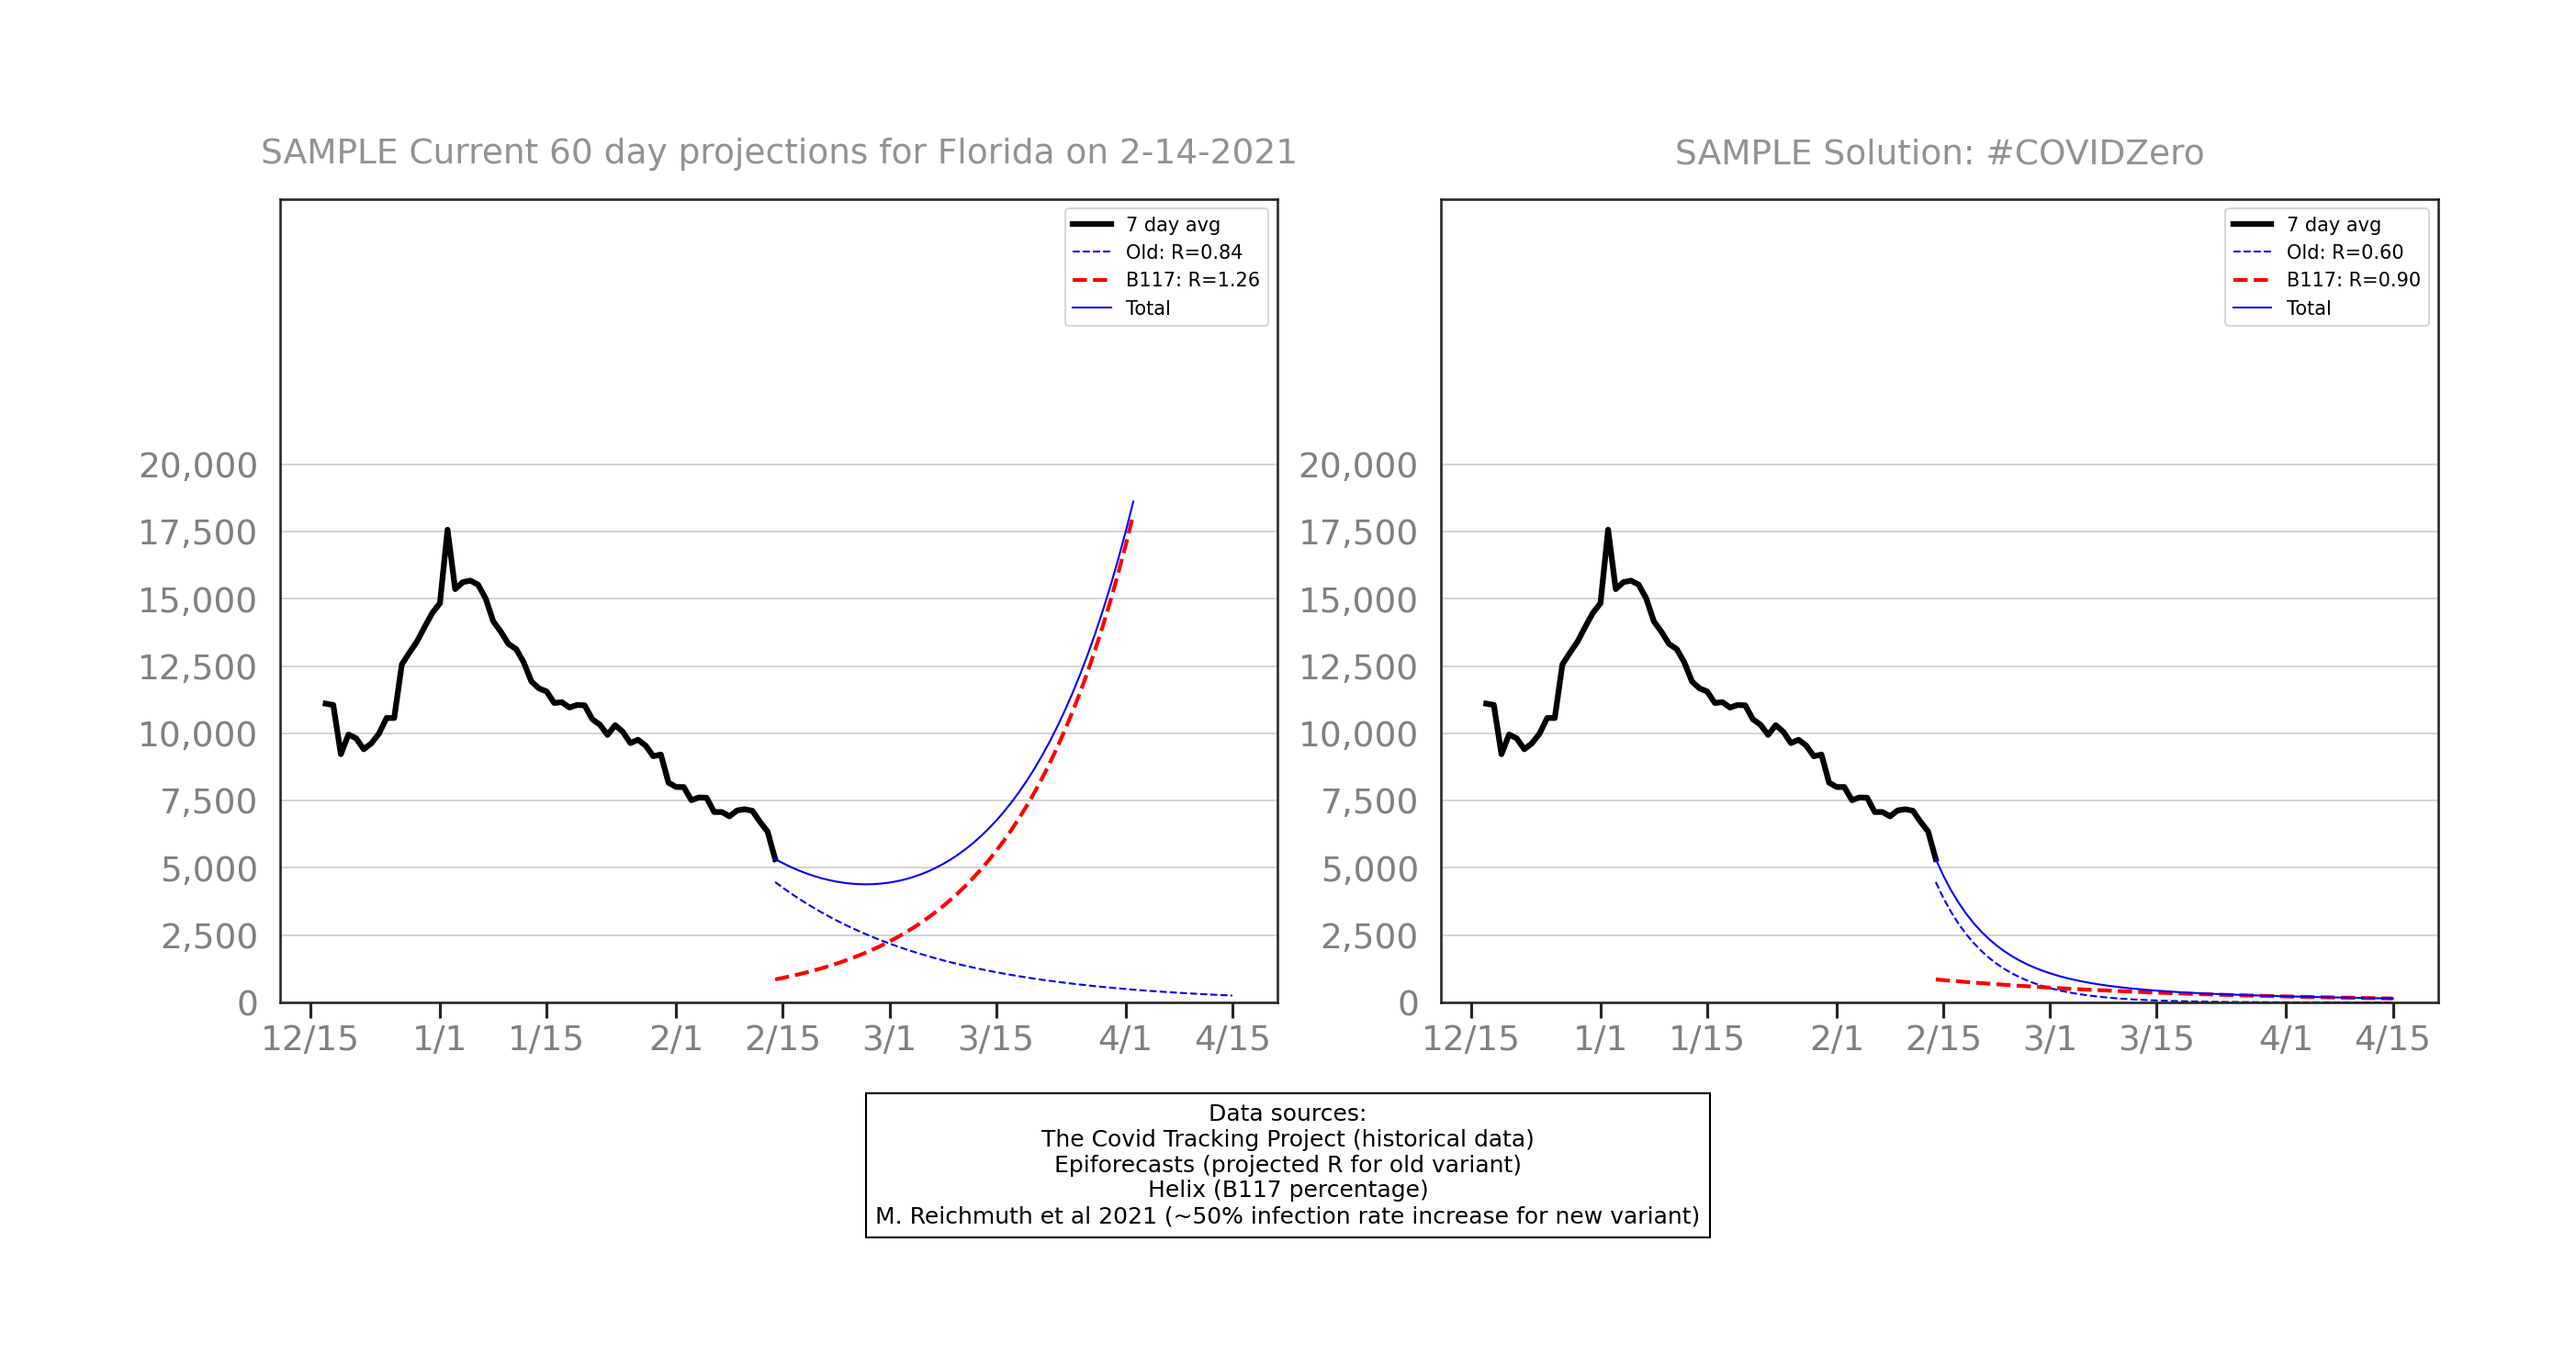
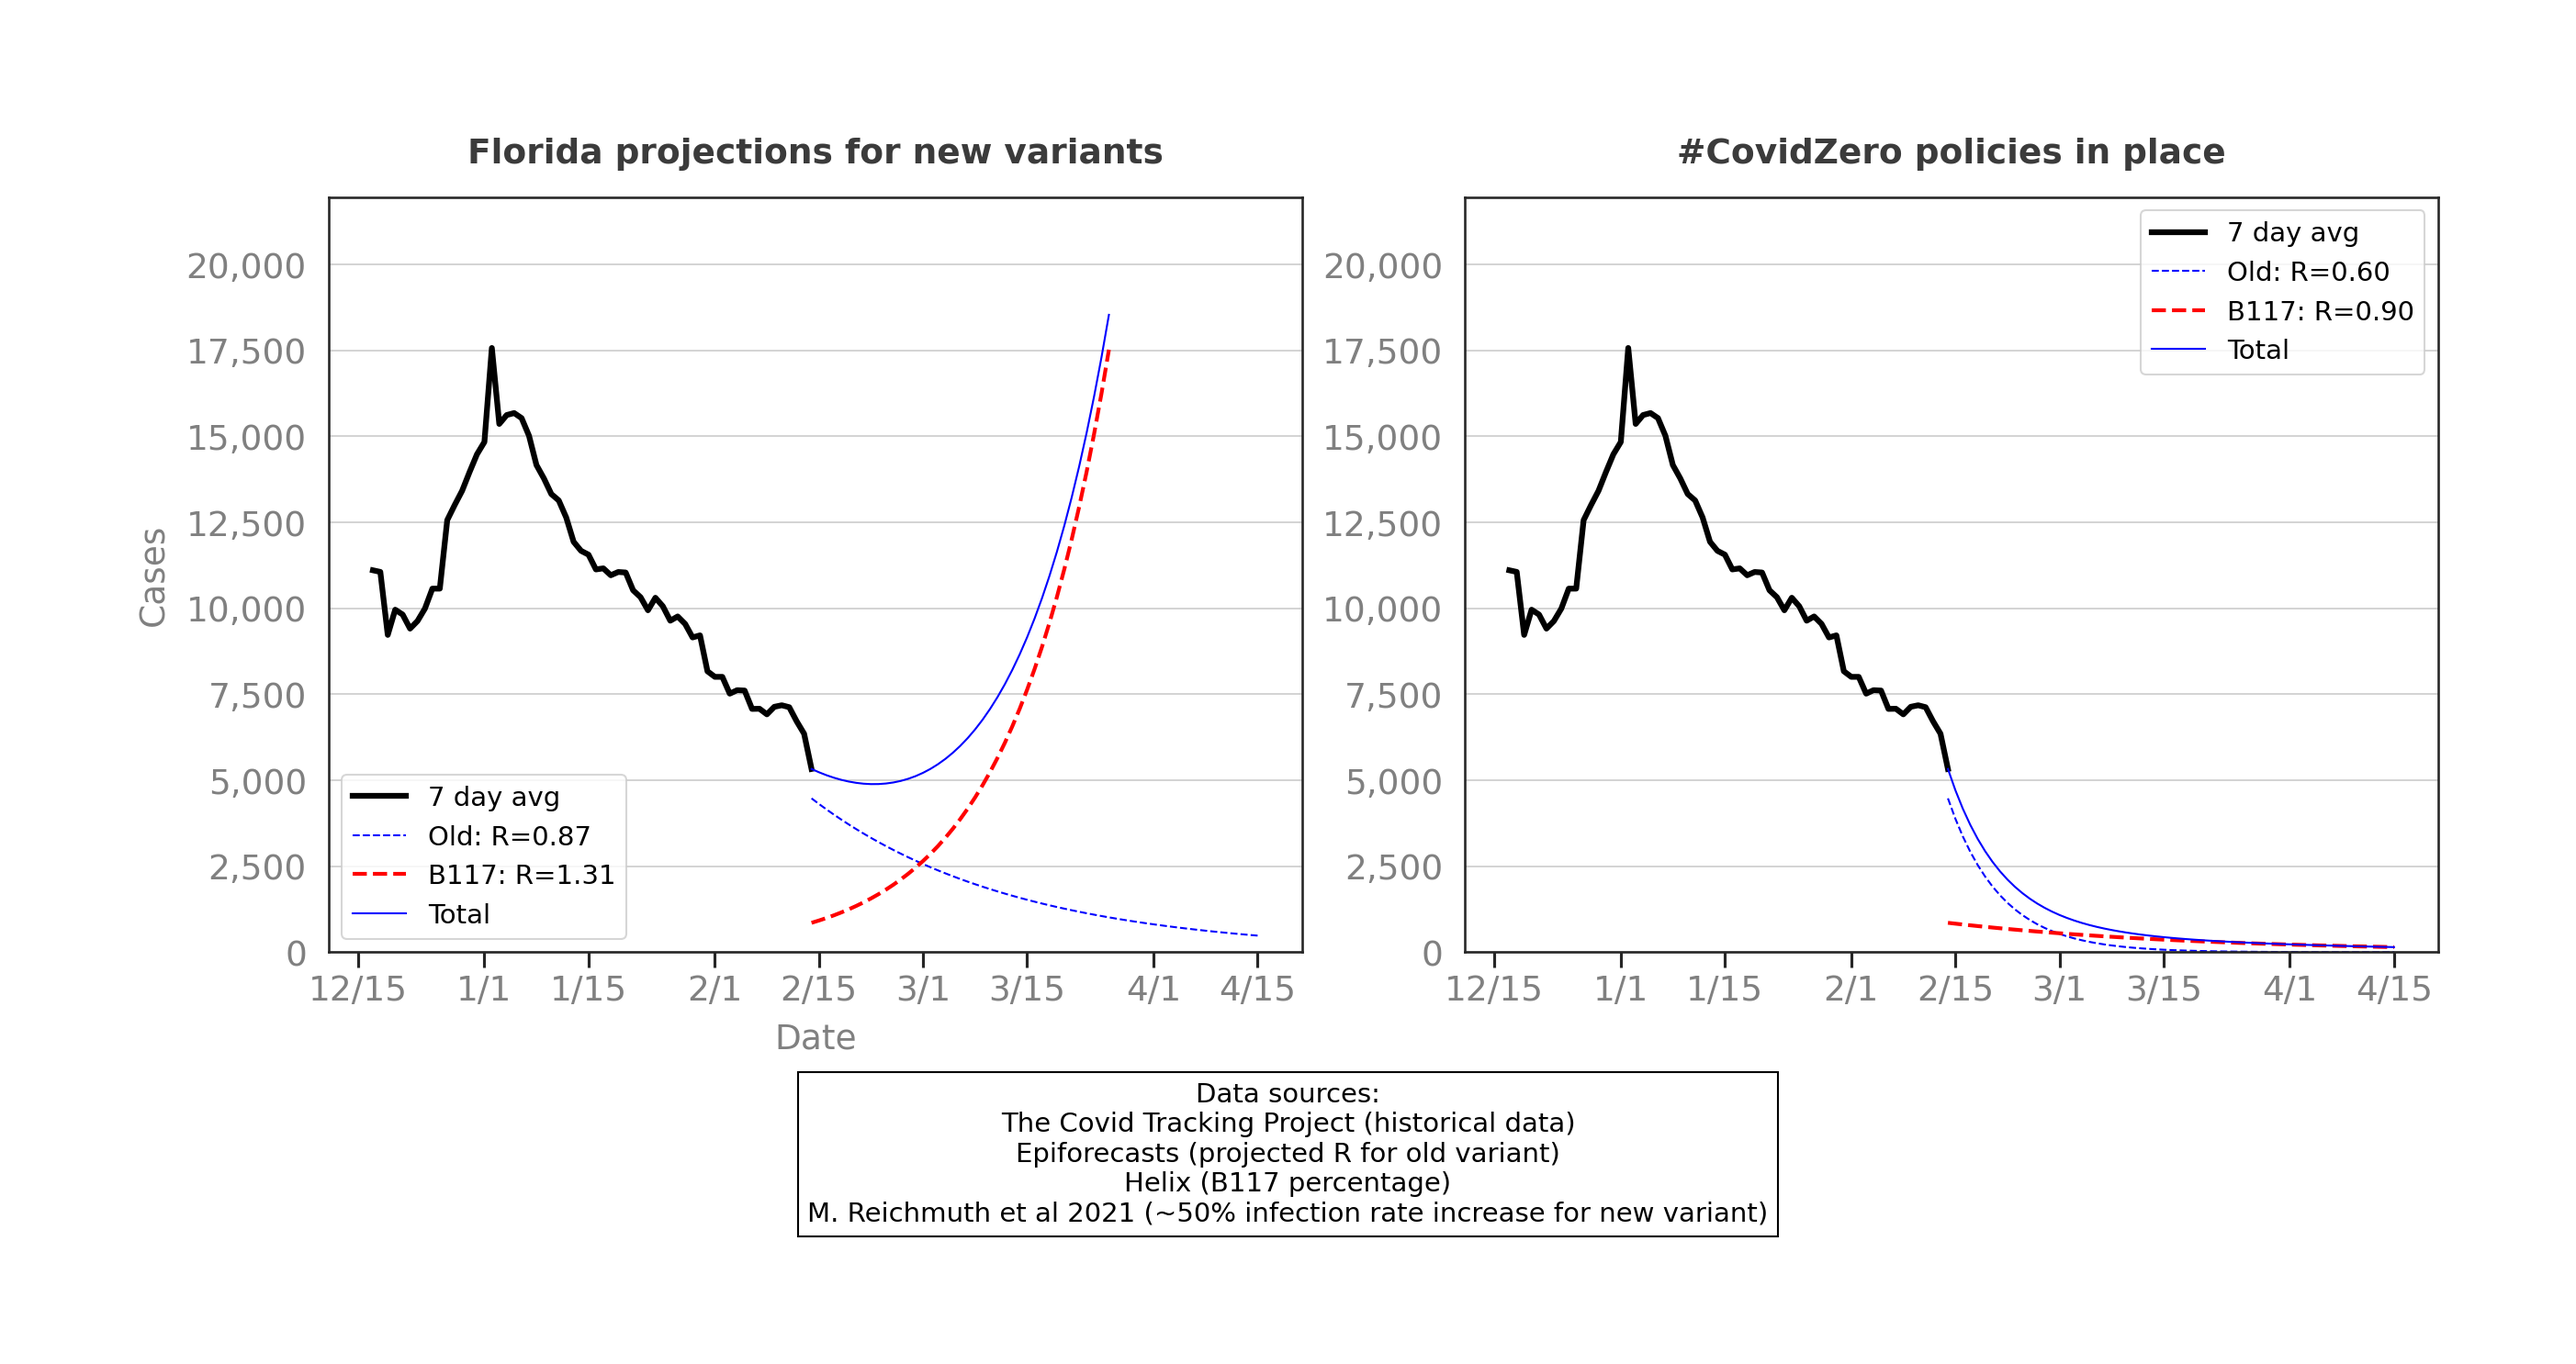
Updated fonts and fixed B117 to 50% of SGTF vals

diff --git a/new_variant_estimate.py b/new_variant_estimate.py
@@ -132,14 +132,14 @@ def padColumn(data, column, n_pad):
   return average
 
 # Set up each matplotlib axis
-def setUpAxis(axis, y_cutoff):
+def setUpAxis(axis, y_cutoff, labels=False):
   # DATE FORMATTER #
   date_form = DateFormatter("%#m/%#d")
 
 
   # SETTING LABEL TO TOP & FORMATTING DATE #
   
-  axis.xaxis.set_label_position('top')
+  axis.xaxis.set_label_position('bottom')
   axis.xaxis.set_major_formatter(date_form)    
 
 
@@ -160,12 +160,13 @@ def setUpAxis(axis, y_cutoff):
 
   axis.set_ylim((0, int(y_cutoff)))
 
-  if legend:
-    axis.legend()        
-
 
   # SETTING GRID #
   axis.grid(axis='y')
+
+  if labels:
+    axis.set_xlabel('Date', fontsize=18, color='grey', labelpad=8)
+    axis.set_ylabel('Cases', fontsize=18, color='grey', labelpad=8)
 
 
 
@@ -193,14 +194,14 @@ The Covid Tracking Project (historical data)
 Epiforecasts (projected R for old variant)
 Helix (B117 percentage)
 M. Reichmuth et al 2021 (~50% infection rate increase for new variant)"""
-      , ha="center", fontsize=12, bbox={ "facecolor":"white", "pad":5})
+      , ha="center", fontsize=14, bbox={ "facecolor":"white", "pad":5})
 
   return axes
 
 
 # Make a sub-chart of historical and projection data
 def makeSubChart(df_historical, df_r_estimates, df_emerging_variants, state, R_covid, R_variant, 
-    axis, header_text, n_days_data, n_days_projection, legend=False):
+    axis, header_text, n_days_data, n_days_projection, legend=False, current=True):
 
     data=df_historical[:n_days_data]
 
@@ -219,8 +220,6 @@ def makeSubChart(df_historical, df_r_estimates, df_emerging_variants, state, R_c
     y_cutoff = data['average'].max()
 
 
-
-
     # initial cases per day for B117 variant
     if state in percent_cases_variant:
       init_variant_cases = percent_cases_variant[state]*init_covid_cases
@@ -232,23 +231,8 @@ def makeSubChart(df_historical, df_r_estimates, df_emerging_variants, state, R_c
     projection_covid = projectCases(R_covid, init_covid_cases, n_days_projection + 1,generation=generation, pad=len(data) - 1)
     projection_variant = projectCases(R_variant, init_variant_cases, n_days_projection + 1, generation=generation, pad=len(data) - 1 )
     projection_total = projection_covid + projection_variant
-    projection_diff = np.abs(projection_covid - projection_variant)[-n_days_projection:]
 
-    # crossover point where original and variant strains are equal (if exists)
-    use_crossover_point = True
-    crossover_point = np.argmin(projection_diff)
-    crossover_point += len(data)
-    crossover_date = dates[crossover_point]
-    crossover_cases = projection_total[crossover_point]
-
-
-  
-
-    if crossover_point >= len(projection_total) - 1 or projection_total[crossover_point + 1] < projection_total[crossover_point]:
-      use_crossover_point = False
-
-
-
+    
     # cutoff greater than y_cutoff
     x_cutoff = np.where(projection_total > y_cutoff)
 
@@ -264,18 +248,9 @@ def makeSubChart(df_historical, df_r_estimates, df_emerging_variants, state, R_c
       x_cutoff = -1
 
 
-    # total cases at end of projection window
-
-    if x_cutoff > 1:
-      end_cases = projection_total[x_cutoff - 1]
-    else:
-      end_cases = projection_total[-1]
-
-
 
     # HISTORICAL DATA
     average = padColumn(data, 'average', n_days_projection)
-    positiveIncrease = padColumn(data, 'positiveIncrease', n_days_projection)
 
 
 
@@ -292,10 +267,94 @@ def makeSubChart(df_historical, df_r_estimates, df_emerging_variants, state, R_c
     axis.plot(dates, projection_total, color='blue', lw=1, label="Total")
 
 
-    # SUBPLOT TITLE#
-    axis.set_title(header_text,fontsize=18, y=1.03, alpha=0.5)
+    # ANNOTATIONS
 
-    setUpAxis(axis, y_cutoff + 0.7*y_cutoff)
+    # if current:
+    # # historical average
+    #   historical_index = int(n_days_data/2)
+    #   historical_date = dates[historical_index]
+    #   historical_date_text = dates[historical_index + 8]
+    #   historical_value = average[historical_index]
+    #   axis.annotate('7 Day Avg', 
+    #     xy=(historical_date, historical_value+ 0.01*y_cutoff),
+    #     xytext=(historical_date_text, historical_value + 0.1*y_cutoff),
+    #     arrowprops=dict(arrowstyle="->", connectionstyle="arc3", color='black'),
+    #     fontsize=14,
+    #     color='black',
+    #     fontweight='medium')
+
+    #   total_index = int(n_days_data + 0.6*n_days_projection)
+    #   total_date = dates[total_index]
+    #   total_date_text = dates[total_index]
+    #   total_value = projection_total[total_index]
+    #   axis.annotate('Total', 
+    #     xy=(total_date, total_value + 0.005*y_cutoff),
+    #     xytext=(total_date_text, total_value + 0.1*y_cutoff),
+    #     arrowprops=dict(arrowstyle="->", connectionstyle="arc3", color='blue'),
+    #     fontsize=14,
+    #     color='blue',
+    #     fontweight='medium')
+
+
+
+    #   oldv_index = int(n_days_data + 4)
+    #   oldv_date = dates[oldv_index]
+    #   oldv_date_text = dates[int(0.4*oldv_index)]
+    #   oldv_value = projection_covid[oldv_index]
+    #   print(oldv_index, oldv_value)
+    #   axis.annotate('Old Variants', 
+    #     xy=(oldv_date, oldv_value),
+    #     xytext=(oldv_date_text, oldv_value + 0.02*y_cutoff),
+    #     arrowprops=dict(arrowstyle="->", connectionstyle="arc3", color='blue'),
+    #     fontsize=14,
+    #     color='blue',
+    #     fontweight='medium')    
+
+
+    #   newv_index = int(n_days_data + 0.1*n_days_projection)
+    #   newv_date = dates[newv_index]
+    #   newv_date_text = dates[int(1.05*newv_index)]
+    #   newv_value = projection_variant[newv_index]
+    #   print(oldv_index, oldv_value)
+    #   axis.annotate('New Variants', 
+    #     xy=(newv_date, newv_value + 0.01*y_cutoff),
+    #     xytext=(newv_date_text, newv_value + 0.2*y_cutoff),
+    #     arrowprops=dict(arrowstyle="->", connectionstyle="arc3", color='red'),
+    #     fontsize=14,
+    #     color='red',
+    #     fontweight='medium')    
+    # axis.annotate(init_variant_cases_str, 
+    #   xy=(dates[n_days_data -1 ], init_variant_cases + 100),
+    #   xytext=(dates[n_days_data + 2], init_variant_cases + 1500),
+    #   arrowprops=dict(arrowstyle="->", connectionstyle="arc3", color='red'),
+    #   color='red')
+    # # annotate crossover point
+    # if use_crossover_point:
+    #   axis.annotate(crossover_cases_str, 
+    #     xy=(crossover_date, crossover_cases + 100),
+    #     xytext=(crossover_date, crossover_cases + 1500),
+    #     arrowprops=dict(arrowstyle="->", connectionstyle="arc3", color='blue'),
+    #     color='blue')    
+    # # annotate end value and date
+    # axis.annotate(end_cases_str, 
+    #   xy=(dates[x_cutoff - 1], end_cases + 0),
+    #   xytext=(dates[x_cutoff - 6], end_cases + 1500),
+    #   arrowprops=dict(arrowstyle="->", connectionstyle="arc3", color='blue'),
+    #   color='blue')  
+
+
+
+    # SUBPLOT TITLE#
+    axis.set_title(header_text,fontsize=18, y=1.03, alpha=0.9, fontweight='bold')
+
+    axis_cutoff = 1.25*y_cutoff
+    
+    axis_cutoff = int(1500*axis_cutoff)/1500 -1
+    setUpAxis(axis, axis_cutoff, current)
+    
+    if legend:
+      axis.legend(fontsize=14, loc='best')        
+
 
 
 # Make a two paneled chart for the given state and values
@@ -344,21 +403,26 @@ def makeChart(state, n_days_projection, n_days_data, data_folder, update_data=Fa
 
   
   R0 = float(df_r_estimates['R'][state_full_name])
-  pct_variant = percent_cases_variant[state]
+  pct_variant = percent_cases_variant[state]*0.5 # ~ 50% of SGTF tests are B117
   R_covid = R0/(1.5*pct_variant + (1-pct_variant))
   R_variant = 1.5*R_covid # 50% increas in reproduction rate
 
   R_covid_lockdown = 0.6 # example value
   R_variant_lockdown = 1.5*R_covid_lockdown
 
-
+  print('R_covid, R_variant', R_covid, R_variant)
+  print('R_covid_lockdown, R_variant_lockdown', R_covid_lockdown, R_variant_lockdown)
   date = df_historical['date'][0]
   date = date.strftime("%#m-%#d-%Y")
 
-  title_current = r'SAMPLE Current %d day projections for %s on %s'% (n_days_projection, state_full_name, date)
-  title_covidzero = 'SAMPLE Solution: #COVIDZero'
-  makeSubChart(df_historical, df_r_estimates, df_emerging_variants, state, R_covid, R_variant, axes[0], title_current, n_days_data, n_days_projection, legend=legend)
-  makeSubChart(df_historical, df_r_estimates, df_emerging_variants, state, R_covid_lockdown, R_variant_lockdown, axes[1], title_covidzero, n_days_data, n_days_projection, legend=legend)
+  title_current = r'%s projections for new variants'% (state_full_name)
+  title_covidzero = '#CovidZero policies in place'
+  makeSubChart(df_historical, df_r_estimates, df_emerging_variants, state, R_covid, R_variant, axes[0], title_current, n_days_data, n_days_projection, legend=legend, current=True)
+ 
+  
+  makeSubChart(df_historical, df_r_estimates, df_emerging_variants, state, R_covid_lockdown, R_variant_lockdown, axes[1], title_covidzero, n_days_data, n_days_projection, legend=legend, current=False)
+
+
 
   filename = r'figs\projection_%s_%s.png'% (state, date)
 
